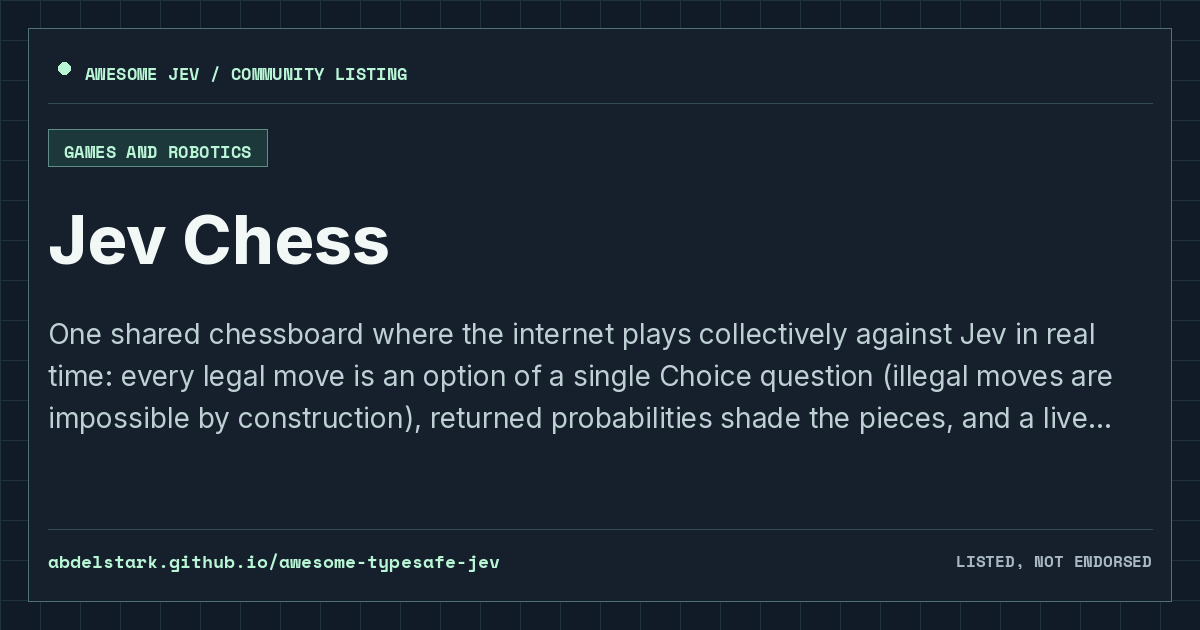
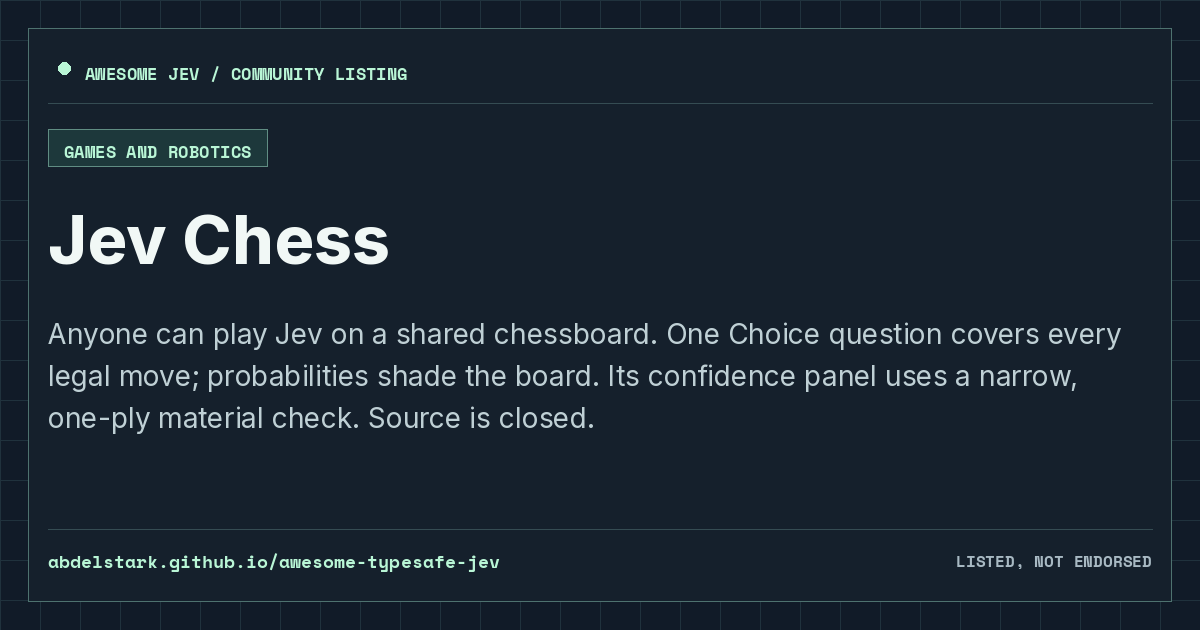
Tighten Jev Chess listing for share card

Changed region(s): [[0.0308, 0.5127, 0.9558, 0.6937]]

diff --git a/projects/site-jevchess-com.html b/projects/site-jevchess-com.html
@@ -1,12 +1,12 @@
 ---
 layout: "resource"
 title: "Jev Chess | Awesome Jev"
-description: "One shared chessboard where the internet plays collectively against Jev in real time: every legal move is an option of a single Choice question (illegal moves are impossible by construction), returned probabilities shade the pieces, and a live panel scores each claimed confidence against a one-ply material check; closed-source site, and the calibration check is deliberately narrow."
+description: "Anyone can play Jev on a shared chessboard. One Choice question covers every legal move; probabilities shade the board. Its confidence panel uses a narrow, one-ply material check. Source is closed."
 permalink: "/projects/site-jevchess-com/"
 resource_name: "Jev Chess"
 resource_slug: "site-jevchess-com"
 resource_url: "https://jevchess.com"
-description_markdown: "One shared chessboard where the internet plays collectively against Jev in real time: every legal move is an option of a single Choice question (illegal moves are impossible by construction), returned probabilities shade the pieces, and a live panel scores each claimed confidence against a one-ply material check; closed-source site, and the calibration check is deliberately narrow."
+description_markdown: "Anyone can play Jev on a shared chessboard. One Choice question covers every legal move; probabilities shade the board. Its confidence panel uses a narrow, one-ply material check. Source is closed."
 category_name: "Games and robotics"
 category_id: "games-and-robotics"
 social_image: "/assets/cards/site-jevchess-com.png"

diff --git a/README.md b/README.md
@@ -278,7 +278,7 @@ Community projects are independent unless their repository says otherwise. Read 
 ### Games and robotics
 
 - [HEIST//ONE](https://github.com/AbdelStark/heist-one) — Observable browser stealth game where Jev supplies batched typed judgments for six guards while deterministic code owns the simulation and validates every proposal; includes a Decision Lens, scripted offline mode, evidence traces, tests, and one documented live sandbox extraction.
-- [Jev Chess](https://jevchess.com) — One shared chessboard where the internet plays collectively against Jev in real time: every legal move is an option of a single Choice question (illegal moves are impossible by construction), returned probabilities shade the pieces, and a live panel scores each claimed confidence against a one-ply material check; closed-source site, and the calibration check is deliberately narrow.
+- [Jev Chess](https://jevchess.com) — Anyone can play Jev on a shared chessboard. One Choice question covers every legal move; probabilities shade the board. Its confidence panel uses a narrow, one-ply material check. Source is closed.
 - [Jev Drone](https://github.com/RomanSlack/jev-drone) — MuJoCo quadrotor stack that keeps control and safety in code while using Jev for slower tactical judgments.
 - [Jev Plays Pokémon](https://github.com/anxkhn/JevPlaysPokemon) — A Pokémon agent that lets you emulate GBA games and has Jev make the battle decisions based on the current stats, state, moves, and Pokémon.
 - [Jev Plays StarCraft](https://github.com/phyous/tsai-sc) — Structured-state harness, verified run, probability trace, and evidence bundle for the original StarCraft shareware campaign.
